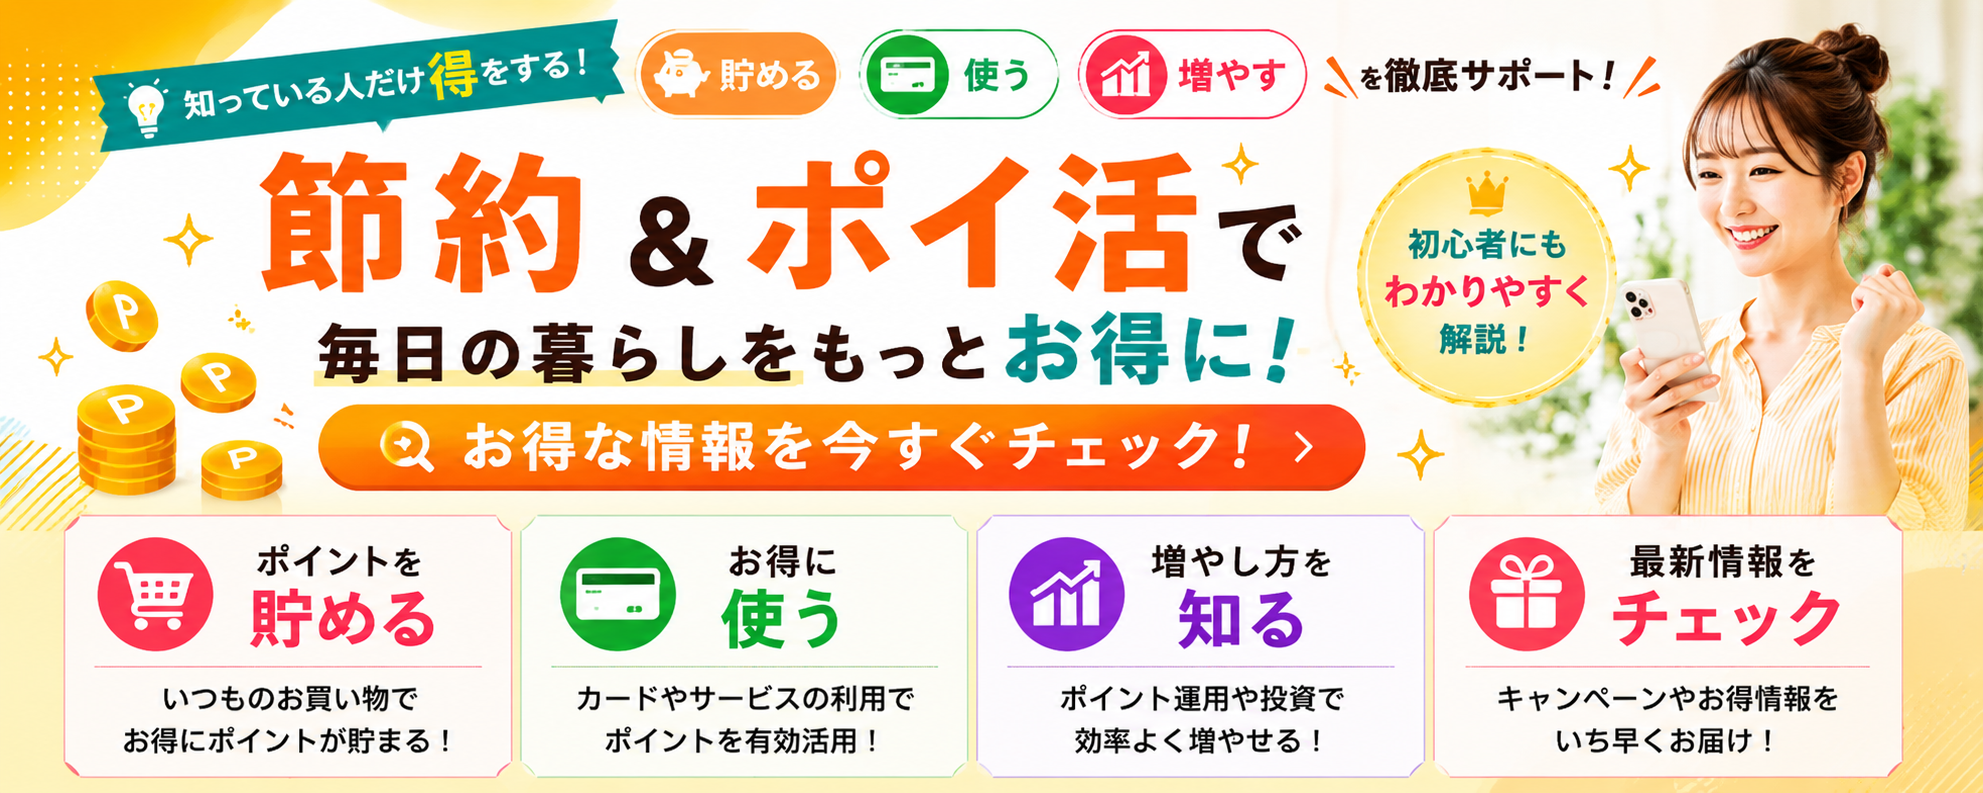
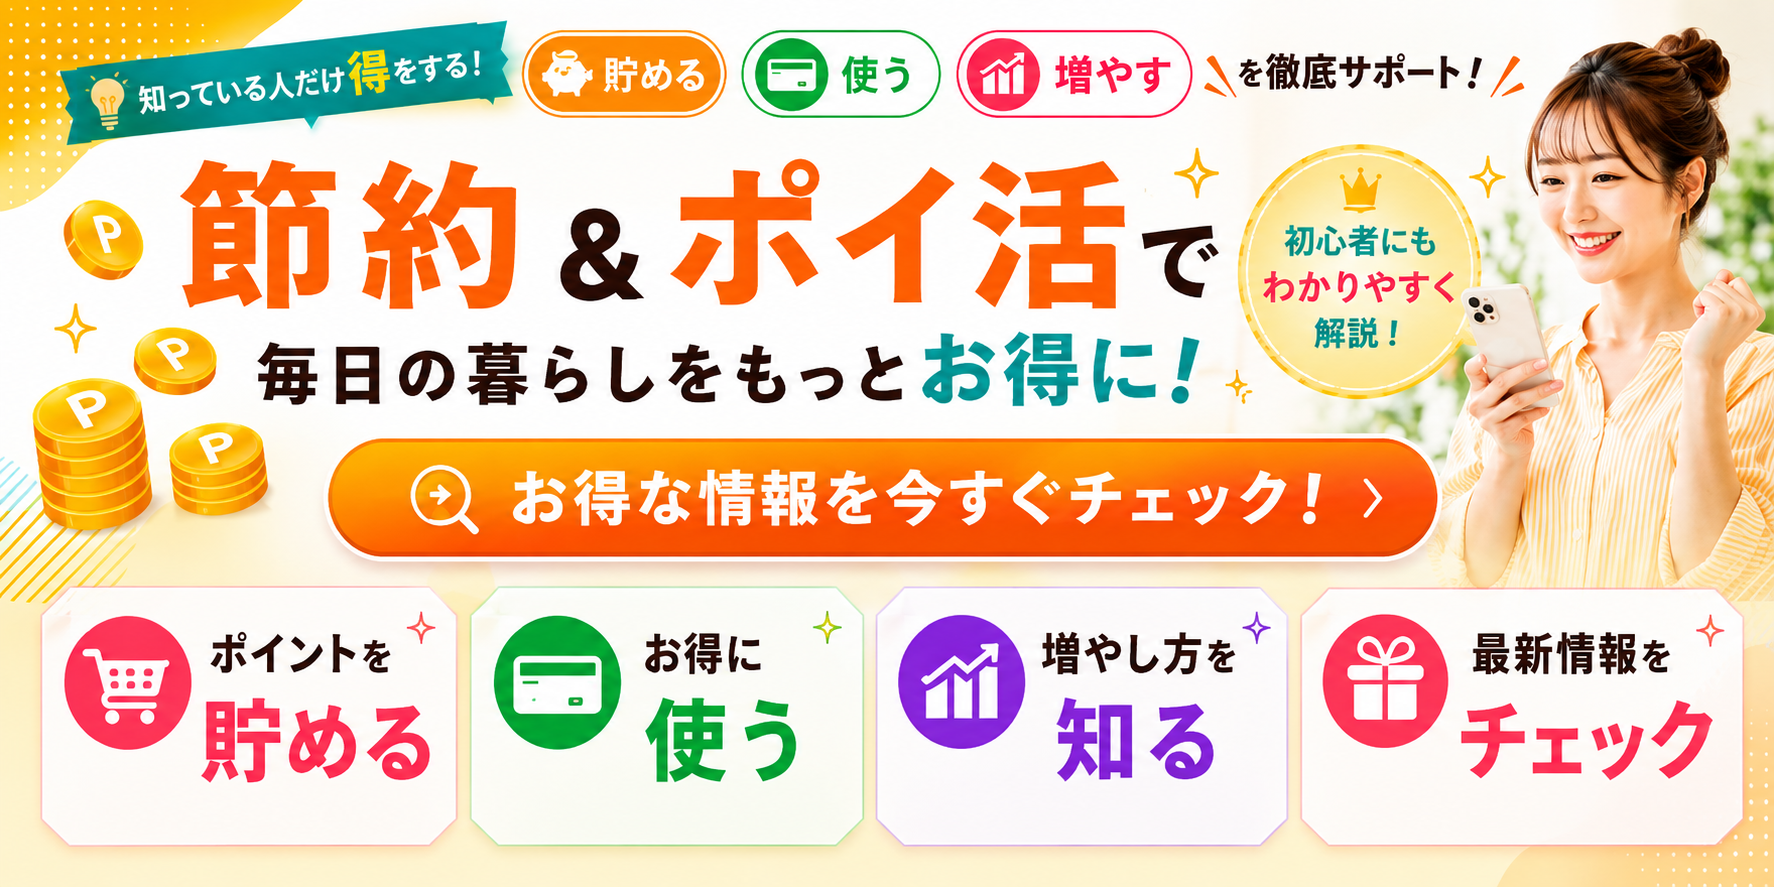
スマホのTOPバナーデザインを更新し比率をCSSに合わせて調整
top_main_banner_sp.pngのデザインを差し替え(新画像比率2:1)。
CSS側の.slider__slideのaspect-ratioを2.5:1から2:1に変更し、
object-fit:containによる左右の余白が出ないよう調整。

diff --git a/css/style.css b/css/style.css
@@ -397,7 +397,7 @@ h1, h2, h3, h4 {
 .slider__slide {
   position: relative;
   flex: 0 0 100%;
-  aspect-ratio: 2.5 / 1;
+  aspect-ratio: 2 / 1;
   overflow: hidden;
 }
 
